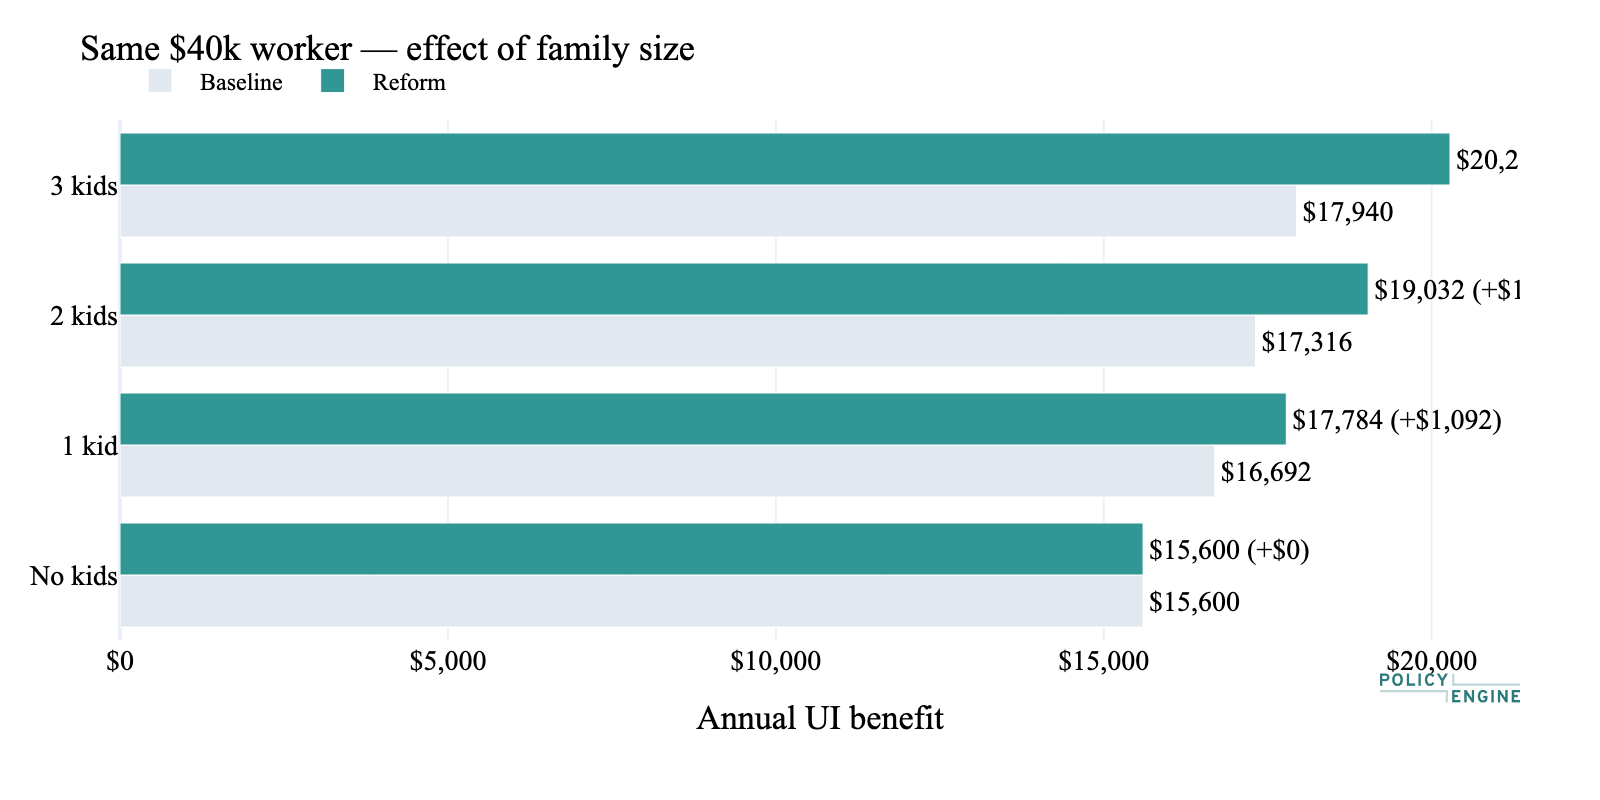
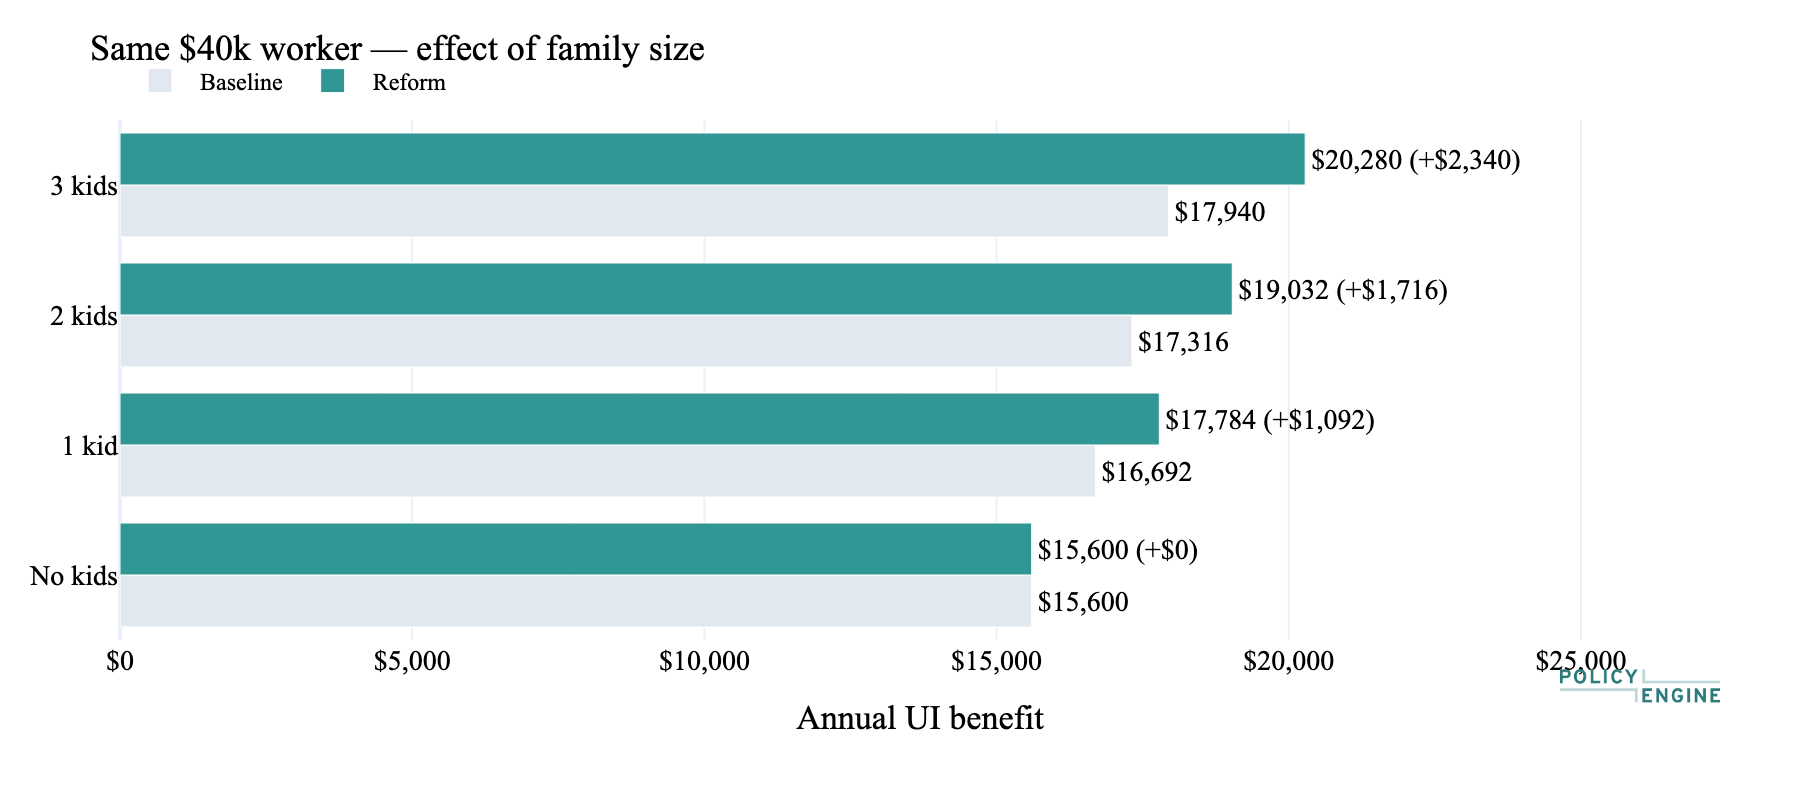
Fix clipped text labels on horizontal bar charts
Extend x-axis range to 1.35x max value so outside text labels
have room to render fully.

diff --git a/us/states/nj/reform_wbr_rate/nj_ui_reform_wbr_rate.py b/us/states/nj/reform_wbr_rate/nj_ui_reform_wbr_rate.py
@@ -115,9 +115,13 @@ fig1 = format_fig(
     fig1,
     "Annual benefit by household type: 60% vs 70% WBR",
     height=500,
-    width=900,
+    width=1000,
 )
-fig1.update_xaxes(title="Annual UI benefit", tickformat="$,.0f")
+fig1.update_xaxes(
+    title="Annual UI benefit",
+    tickformat="$,.0f",
+    range=[0, max(rf) * 1.35],
+)
 fig1.write_image(
     os.path.join(OUT, "annual_benefit_by_household_60_vs_70_wbr.png"), scale=2
 )
@@ -144,8 +148,9 @@ fig2 = format_fig(
     fig2,
     "Who benefits most from 70% WBR?",
     height=450,
-    width=800,
+    width=900,
 )
+fig2.update_layout(margin=dict(r=100))
 fig2.update_xaxes(
     title="Percent increase in annual benefit", ticksuffix="%"
 )

diff --git a/us/states/nj/reform_dependency_allowance/nj_ui_reform_dependency_allowance.py b/us/states/nj/reform_dependency_allowance/nj_ui_reform_dependency_allowance.py
@@ -211,9 +211,13 @@ fig3 = format_fig(
     fig3,
     "Same $40k worker — effect of family size",
     height=400,
-    width=800,
+    width=900,
 )
-fig3.update_xaxes(title="Annual UI benefit", tickformat="$,.0f")
+fig3.update_xaxes(
+    title="Annual UI benefit",
+    tickformat="$,.0f",
+    range=[0, max(rf_v) * 1.35],
+)
 fig3.write_image(
     os.path.join(OUT, "family_size_effect_on_40k_worker.png"), scale=2
 )
